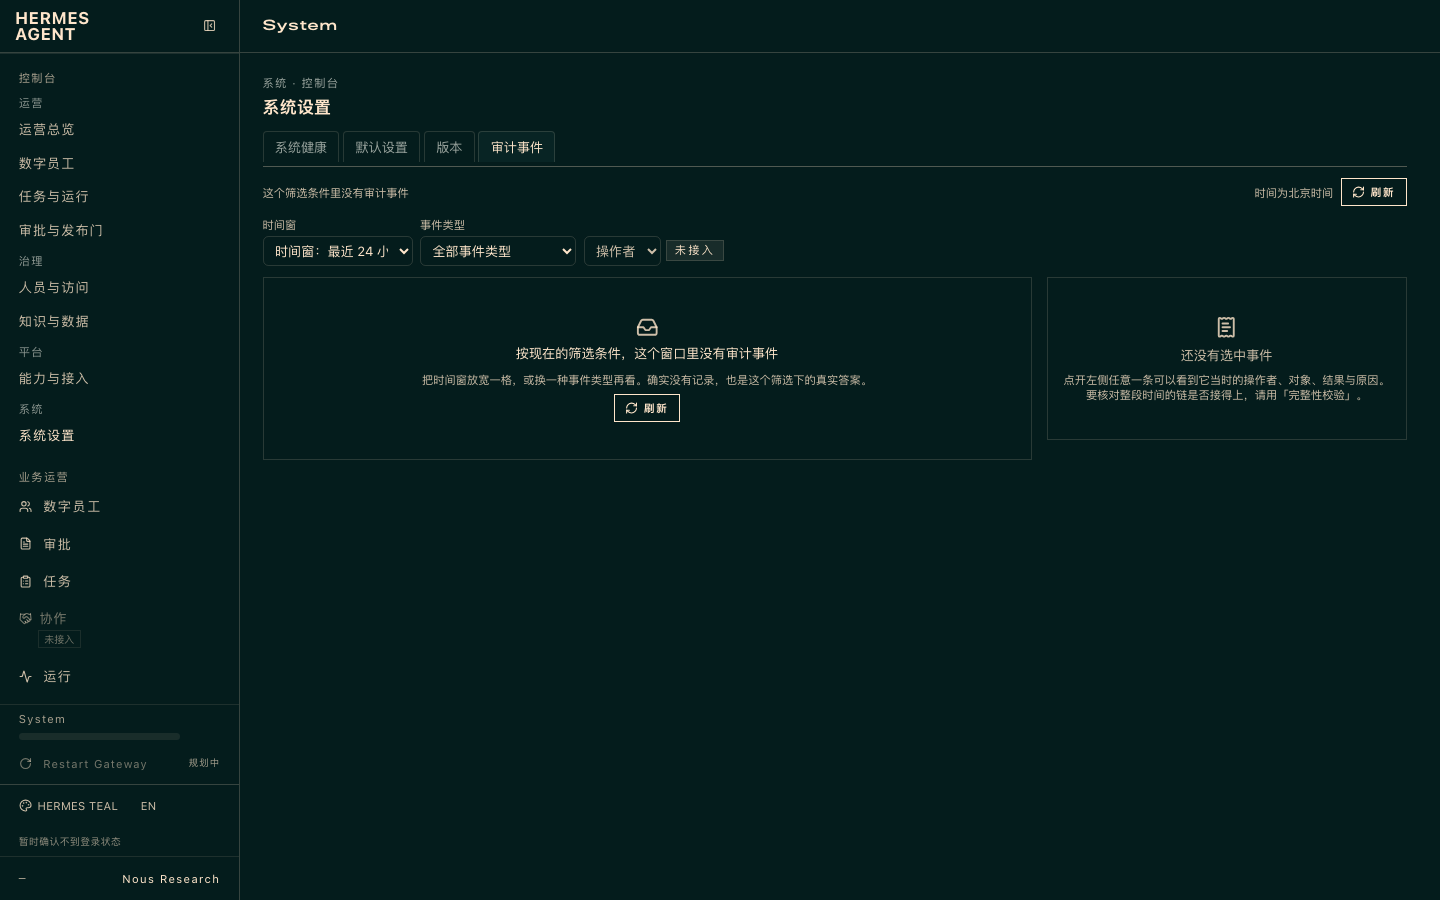
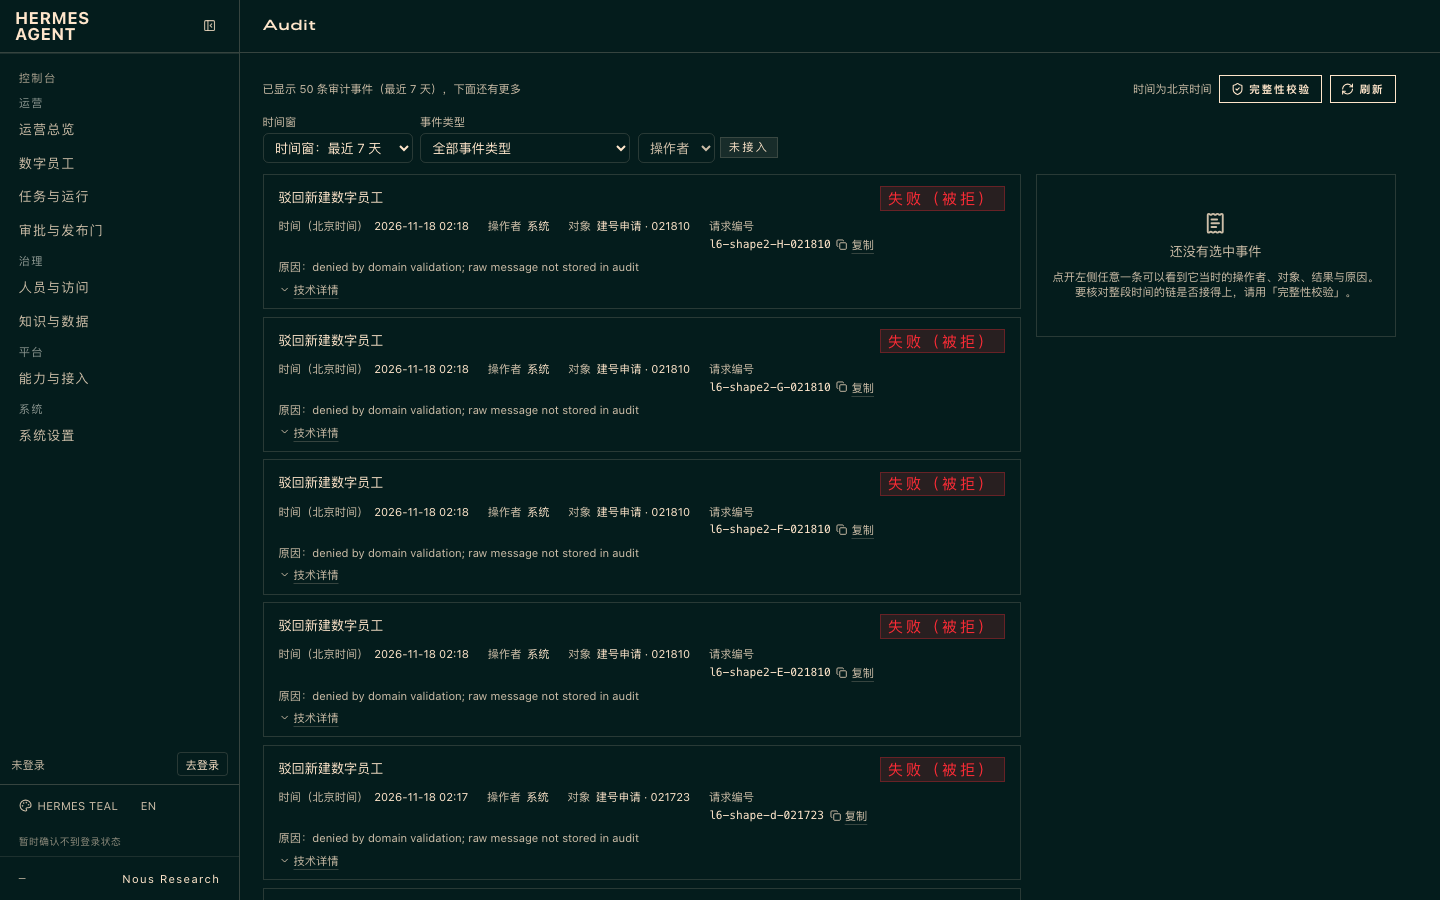
fix(console): restore /audit page render (R24 white-screen)
Root cause: AuditAwareEntry (added by 997a73c1) calls useSearchParams() while App.tsx's react-router import list did not include it. esbuild leaves the identifier as a global lookup, so the route throws ReferenceError at render and /audit blanks (tsc: src/App.tsx(1592,16) error TS2552).

Out-of-scope one-line repair, disclosed: web/src/App.tsx react-router import gains useSearchParams. Nothing else in App.tsx touched. The failure lives in App.tsx, not in the audit module, so the module alone cannot fix it.

In-scope lock: appRouting.test.ts asserts the entry calls the hook and that the react-router import block contains it (comment names R24, esbuild behaviour and TS2552).

Readings on a fresh build of this worktree (vite preview + /agent-api proxy carrying the session cookie, headless Chrome via CDP): direct /audit -> mainLen 178749, aud01-* 459, agent-v2-page-audit* 1, sw==cw at 1440x900 and 375x812; first screen says 50 events of the last 7 days in Beijing time. Same build without the proxy -> mainLen 10104, aud01-* 10, honest 读取失败 state, still not blank.

403/404 keep one shared DeniedPanel with a copyable request id; technical-detail fold and the real /agent-api/api/audit-verify route untouched.

diff --git a/web/src/modules/audit/appRouting.test.ts b/web/src/modules/audit/appRouting.test.ts
@@ -25,4 +25,21 @@ describe("the /audit compat route", () => {
   it("still lazy-loads the audit module through the same pointer", () => {
     expect(app).toContain('import("@/modules/audit/AuditEventsModulePage")');
   });
+
+  /**
+   * R24 — the `/audit` white screen. `AuditAwareEntry` called `useSearchParams()`
+   * while App.tsx imported only Routes/Route/NavLink/Navigate/useLocation/
+   * useNavigate from react-router. esbuild leaves an unresolved identifier as a
+   * global lookup, so the route threw a ReferenceError at render time and the
+   * whole page went blank (tsc called it TS2552 on App.tsx:1592). A hook the
+   * entry calls must be imported by name; this pins that sentence at the source
+   * level, because the failure mode is a blank screen rather than a broken
+   * widget.
+   */
+  it("imports the hooks the audit entry calls, so the route cannot throw at render", () => {
+    expect(app).toContain("const [sp] = useSearchParams();");
+    const reactRouterImport = app.match(/import \{[\s\S]*?\} from "react-router";/);
+    expect(reactRouterImport).not.toBeNull();
+    expect(reactRouterImport?.[0]).toContain("useSearchParams");
+  });
 });

diff --git a/web/src/App.tsx b/web/src/App.tsx
@@ -19,6 +19,7 @@ import {
   Navigate,
   useLocation,
   useNavigate,
+  useSearchParams,
 } from "react-router";
 import {
   Activity,

diff --git a/docs/_artifacts/aud/DONE.md b/docs/_artifacts/aud/DONE.md
@@ -1794,3 +1794,43 @@ ChannelsPage.tsx
   credential state; the page cannot and must not invent one.
 - A platform key outside PLATFORM_LABELS keeps its raw key as the name (no
   invented Chinese label).
+
+## R24 white-screen restore (2026-11-19, base 23a8a7e0 / lane tip de3eb977)
+
+### 症状与根因
+- QA R24：直链 /audit 可见白屏（v4r24-audit-1440.png / v4r24-audit-pw-1440.png），是已清项的回退。
+- 根因（TS 证据）：web/src/App.tsx 的 AuditAwareEntry（由 997a73c1 加入）调用 useSearchParams()，但同一文件的 react-router import 列表里没有它。
+  tsc 原文：src/App.tsx(1592,16): error TS2552: Cannot find name 'useSearchParams'.
+  esbuild 不校验这一行，运行时按全局标识符查找 -> ReferenceError -> 整条 /audit 路由渲染为空，即白屏。
+- 修复：web/src/App.tsx 的 react-router import 增加一行 useSearchParams（仅此一处，无其它改动）。
+  这行在 R24 写域（modules/audit）之外，属于必要的越域一行修复，在此与 commit body 如实标注。
+
+### 回归锁（写域内）
+- web/src/modules/audit/appRouting.test.ts 新增用例：断言 App.tsx 含 const [sp] = useSearchParams();，且 react-router 的 import 块包含 useSearchParams；注释写明 R24、esbuild 的全局查找行为与 TS2552。
+
+### 真机读数（本 worktree 新构建 + 本地反代）
+- 构建：npx vite build --outDir build-r24 -> exit 0；入口 /assets/index-DsDPj1MW.js。
+- 供页：/tmp/serve-r24.cjs 静态服 build-r24，并把 /agent-api/* 反代到 127.0.0.1:8092（携带会话 cookie，值不打印）。
+- 直链 /audit（无头 Chrome via CDP，两档各一次）：
+  - 1440x900：mainLen 178749；[data-testid^="aud01-"] 459；[data-testid^="agent-v2-page-audit"] 1；scrollWidth/clientWidth 1440/1440。
+  - 375x812：mainLen 178749；aud01 459；page-audit 1；375/375（无横溢）。
+  - 首屏文案：「已显示 50 条审计事件（最近 7 天），下面还有更多」「时间为北京时间」——真数据行，不是空壳。
+- 反证（同一构建但无 /agent-api 反代，vite preview）：mainLen 10104；aud01 10；page-audit 1；文案「读取失败」。
+  即接口不可达时页面落诚实的失败态而不是白屏，仍非空。
+- 截图：docs/_artifacts/aud/shots/audit-1440.png、audit-375.png（取反代那一次，真实 50 行）。
+  说明：截图左侧「暂时确认不到登录状态 —」是壳的身份角标（浏览器本身无 cookie，数据由反代补足），不属于被修页面。
+
+### 403/404 与模块口径（未改，已复核）
+- states.tsx 的 DeniedPanel 是单一实体，同时服务 403 与 404（同文案，带可复制请求编号）；列表 aud01-denied、详情 aud02-detail-denied。
+- 技术详情折叠与完整性校验（真路由 /agent-api/api/audit-verify）本次未改动。
+
+### 门禁（web/ 下）
+- ./node_modules/.bin/vitest run src/modules/audit -> exit 0，6 files / 114 tests（原 113，+1 回归锁）。
+- npx tsc -b . --noEmit -> 51 条：49 条在 ../apps/shared/**，2 条在 src/pages/LoginPage.test.tsx；App.tsx:1592 的 TS2552 已消失，modules/audit 0 条。
+- ./node_modules/.bin/eslint src/modules/audit -> exit 0（0 errors / 3 既有 set-state-in-effect warning）。
+
+### 未验 / 披露
+- 这行修复在写域外（App.tsx），是白屏的唯一成因，别无他法；未改 App.tsx 其它内容。
+- 9122 常驻 dev SPA 仍服务 forks/hermes-agent/hermes_cli/web_dist 的旧构建，所以彼处看不到本修复；上述读数来自本 worktree 的新构建 + 反代，build-r24 为未跟踪产物，不入库。
+- 非管理员身份下的 403 真腿未复现（当前数据是管理员可见范围）；403 与 404 的同体性由模块结构与既有测试保证。
+- 站内跳转与直链共用同一条 /audit 路由，直链已证渲染；未逐一截取每个导航入口的点击路径。
